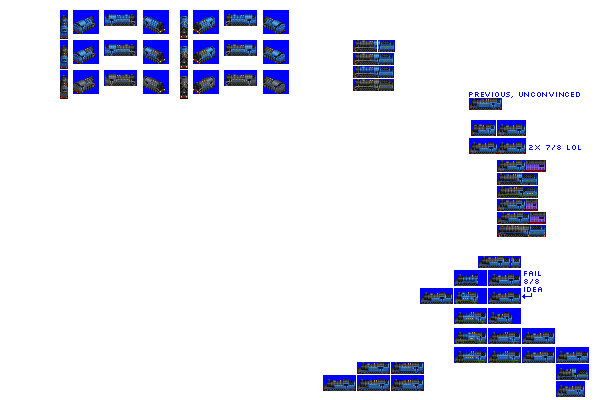
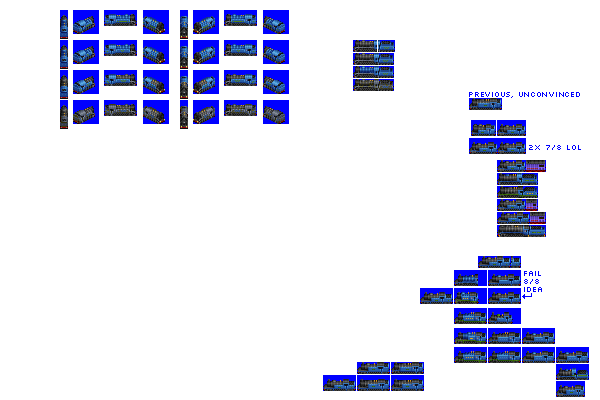
Change: improved Satyr sprite

diff --git a/src/vehicles/pony/satyr.py b/src/vehicles/pony/satyr.py
@@ -16,8 +16,8 @@ def main(roster_id, **kwargs):
         random_reverse=True,
         gen=3,
         # note that livery names are metadata only and can repeat for different spriterows
-        additional_liveries=["SWOOSH", "FREIGHT_BLACK"],
-        sprites_complete=False,
+        additional_liveries=["BANGER_BLUE", "SWOOSH", "FREIGHT_BLACK"],
+        sprites_complete=True,
     )
 
     consist.add_unit(type=SteamEngineUnit, weight=90, vehicle_length=8, spriterow_num=0)
